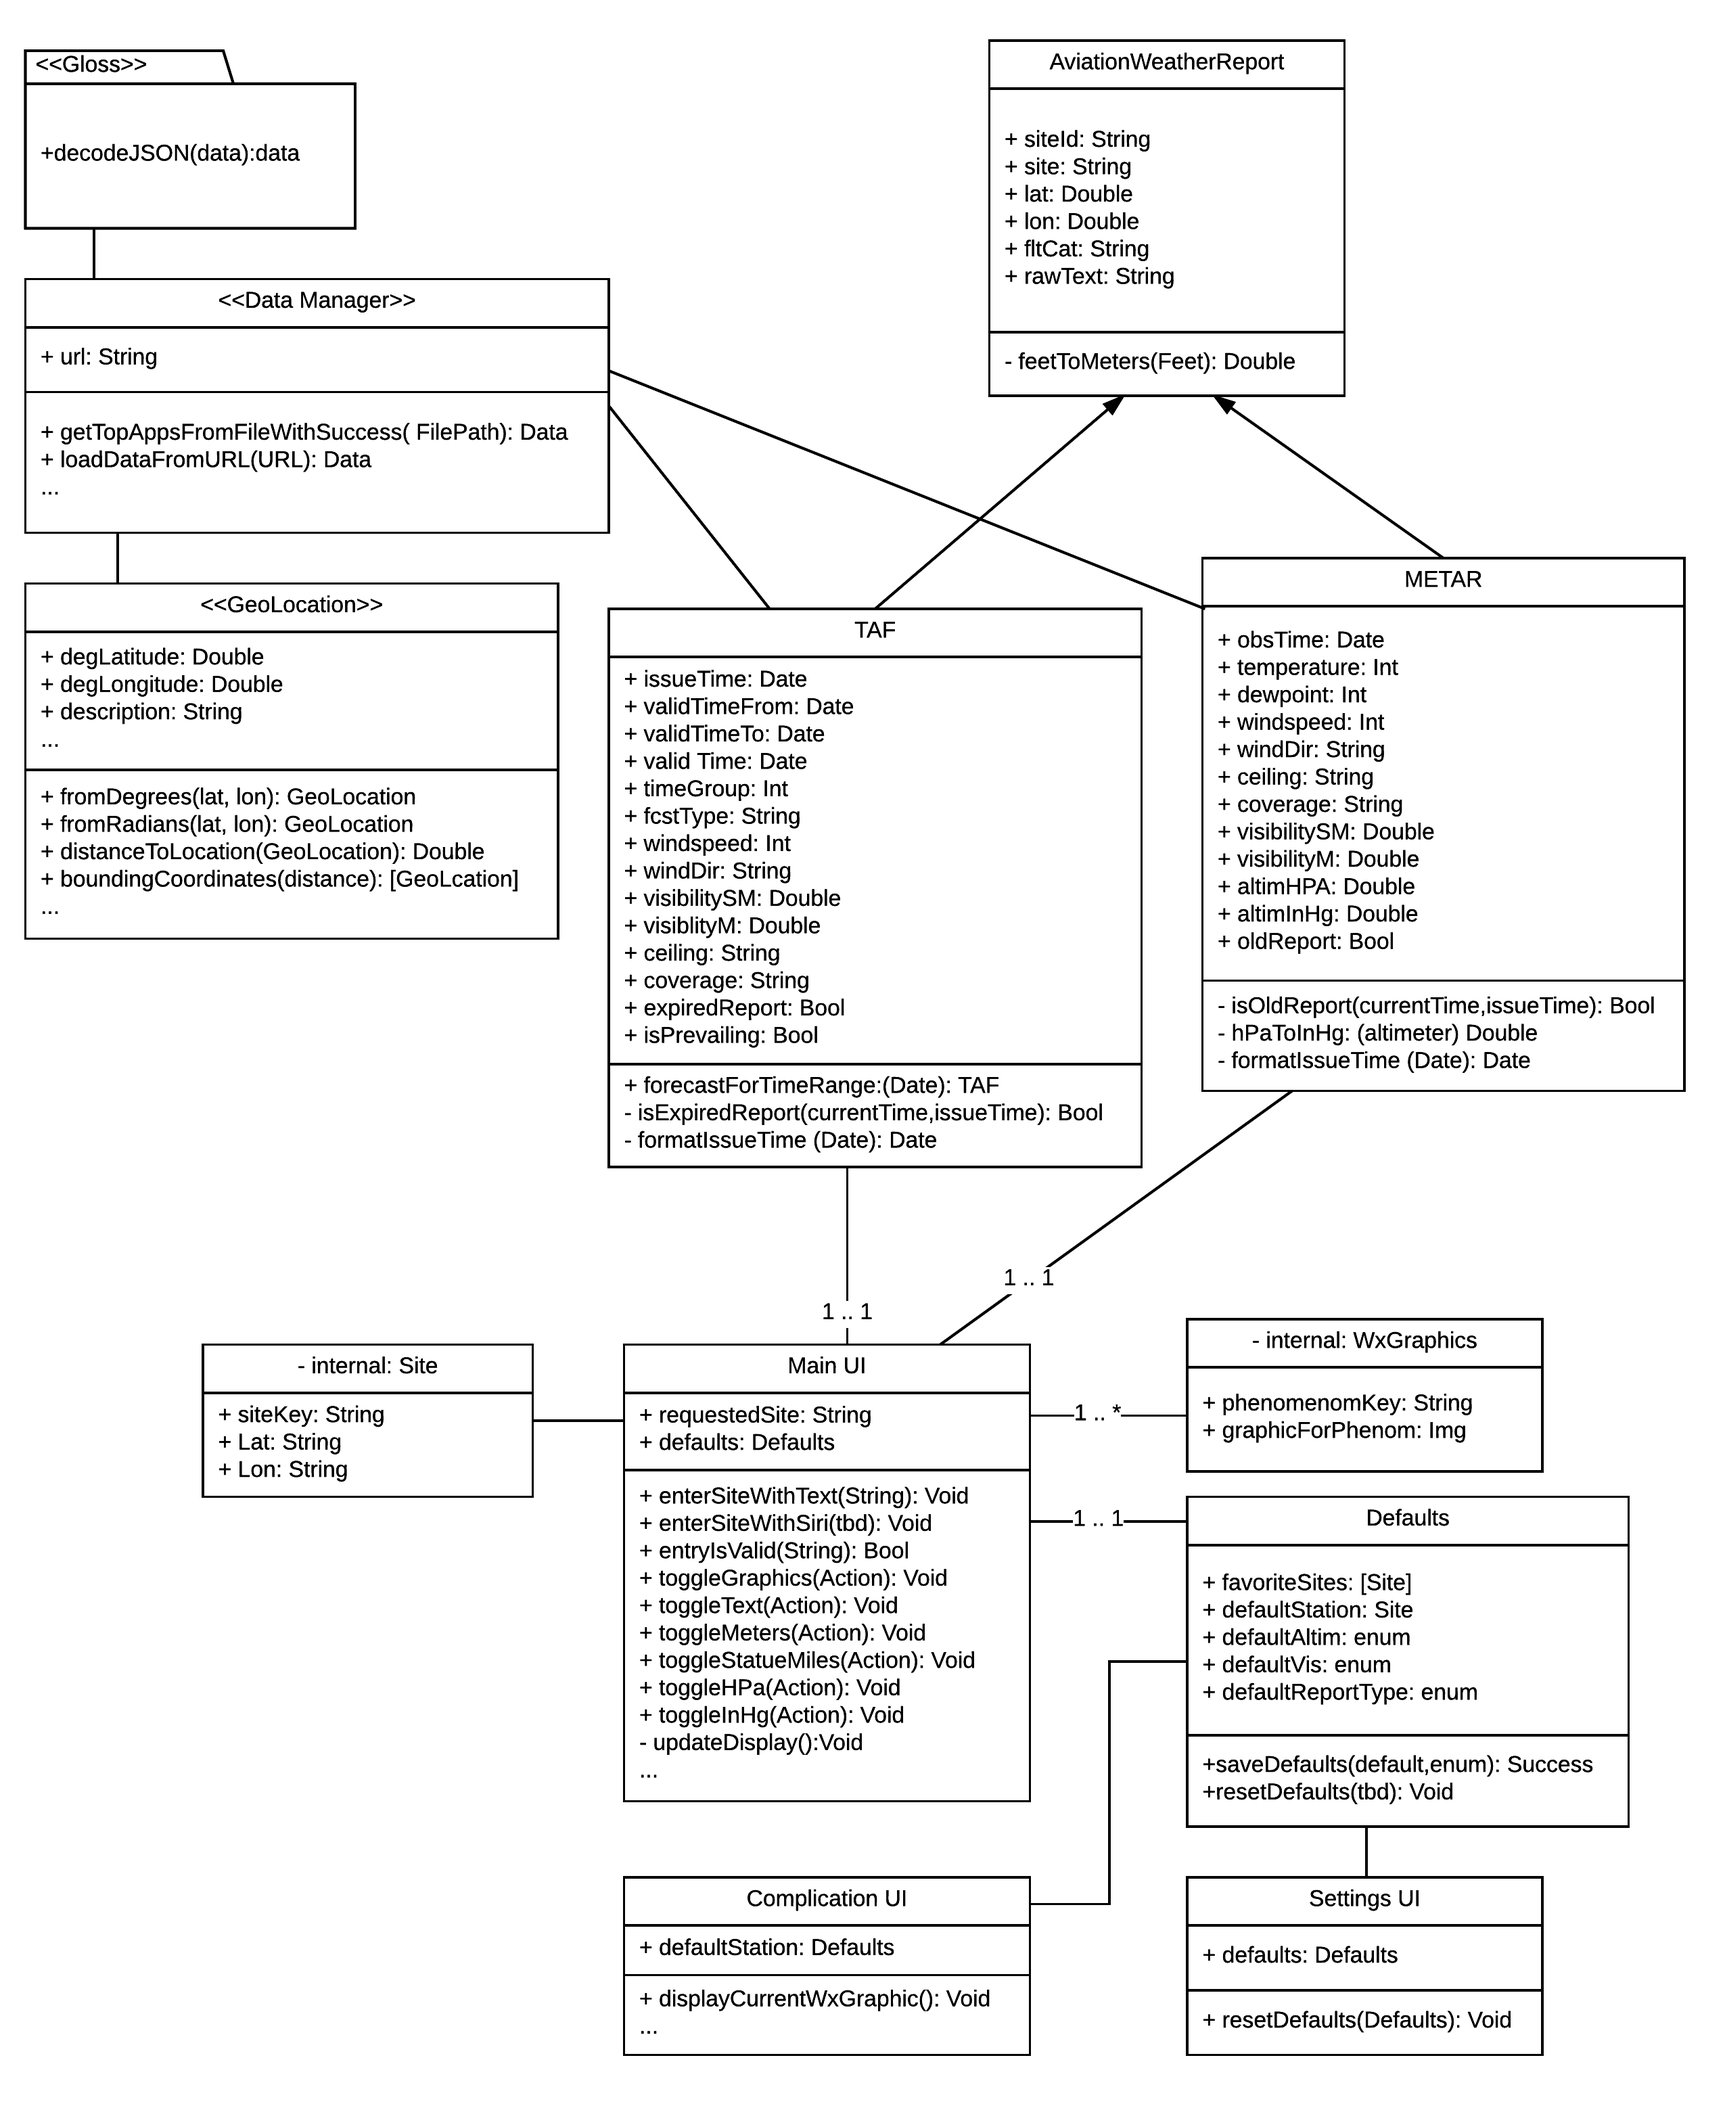
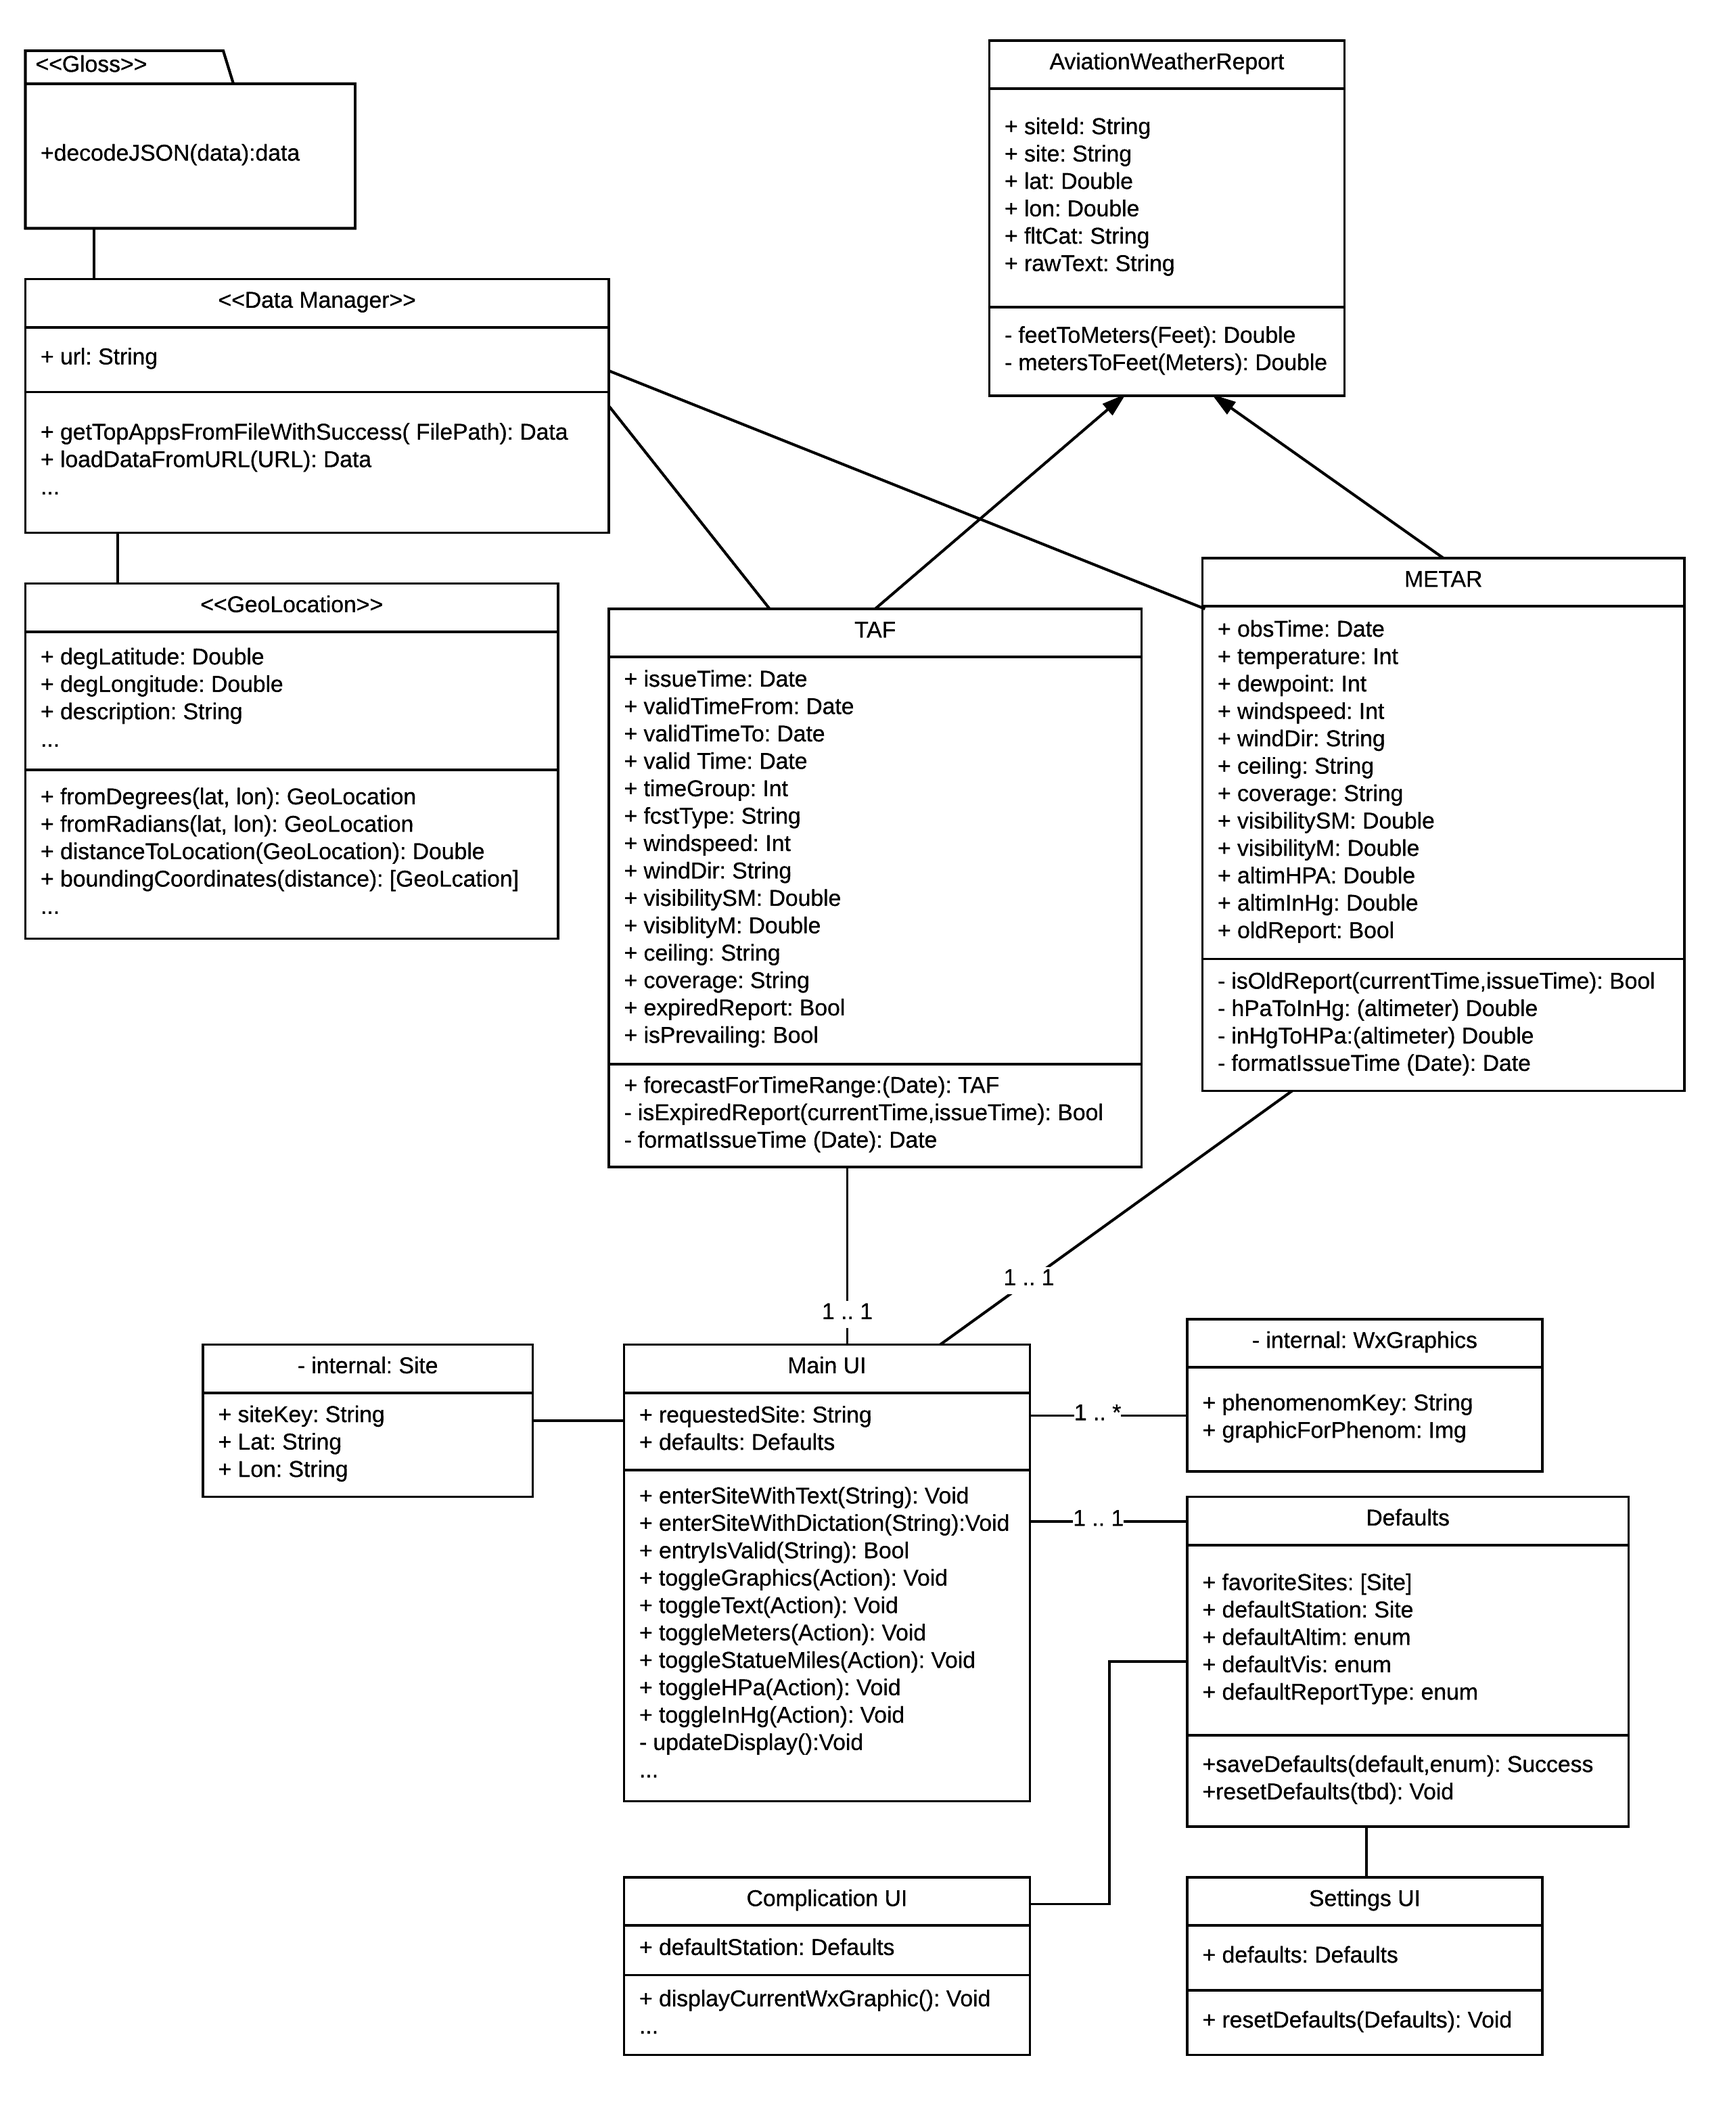
added testplan, updated class diagram

Changed region(s): [[0.7125, 0.2804, 0.9604, 0.5297], [0.5886, 0.0623, 0.7745, 0.187], [0.4647, 0.7167, 0.5576, 0.7478]]

diff --git a/planning/testplan.md b/planning/testplan.md
@@ -1,0 +1,55 @@
+# Test Plan
+<!--
+*This is the template for your test plan. The parts in italics are concise explanations of what should go in the corresponding sections and should not appear in the final document.*
+-->
+
+**Author**: Matthew
+
+## 1 Testing Strategy
+
+### 1.1 Overall strategy
+<!--
+*This section should provide details about your unit-, integration-, system-, and regression-testing strategies. In particular, it should discuss which activities you will perform as part of your testing process, and who will perform such activities.*
+-->
+
+### 1.2 Test Selection
+<!--
+*Here you should discuss how you are going to select your test cases, that is, which black-box and/or white-box techniques you will use. If you plan to use different techniques at different testing levels (e.g., unit and system), you should clarify that.*
+-->
+
+
+### 1.3 Adequacy Criterion
+<!--
+*Define how you are going to assess the quality of your test cases. Typically, this involves some form of functional or structural coverage. If you plan to use different techniques at different testing levels (e.g., unit and system), you should clarify that.*
+-->
+
+
+### 1.4 Bug Tracking
+<!--
+*Describe how bugs and enhancement requests will be tracked.*
+-->
+
+<!--
+*Describe any testing technology you intend to use or build (e.g., JUnit, Selenium).*
+-->
+
+
+## 2 Test Cases
+<!--
+*This section should be the core of this document. You should provide a table of test cases, one per row. For each test case, the table should provide its purpose, the steps necessary to perform the test, the expected result, the actual result (to be filled later), pass/fail information (to be filled later), and any additional information you think is relevant.*
+-->
+
+Test | Purpose | Steps to Perform | Expected Result | Actual Result | Pass/Fail |
+-------------| -------------| -------------| -------------| -------------| -------------
+1.1 Test that the app detects the first launch and  | To verify first launch defaults | 1. Create a first launch scenario 2. Invoke app launch -didFinishLaunchWithOptions function 3. Access defaults for launch. | defaultsForKey "first launch" = true| TBD | TBD
+1.2. Test that the app detects when it has been launched before | To verify >= second app launches | 1. Create a second launch scenario 2. Invoke app launch -didFinishLaunchWithOptions functions 3. Access defaults for launch.| defaultsForKey "first launch" = false| TBD| TBD
+1.3 Test that the app detects when it has been launched before but no default station is set| Detect when no default station is set | 1. Create a second launch scenario 2. Invoke didFinishLaunchingWithOptions. 3. Access launch default and default stations| defaultsForKey "first launch" = false and default station is not set | TBD | TBD
+2.1 Test validation of station input with malformed string | Verify only valid stations are requested | 1. Input invalid station input of less than required characters or containing invalid characters. 2. Use pattern match to detect malformed queries without accessing the data file and searching for the station. | Invalid stations return a false value from MainUI.entryIsValid attribute | TBD| TBD
+2.2 Test validation of station input with properly formed string but a non-existent station| Verify that an invalidStation is false when the station is not found in the data file. | 1. Invalid well formed string of a non-existent station.  2. Search for station in Sites data file. | Non-Existent stations are invalid.  Return a false value from MainUI.entryIsValid attribute | TBD | TBD
+2.3 Test validation of a valid station input | Verify that a valid station is found within the Sites data file. | 1. Input a valid station string.  2. Search for station in Sites data file. | Existing stations are valid and return a true value from the MainUI.entryIsValid attribute |TBD| TBD
+3. *Reserved Graphic for Key Testing* | | | | TBD | TBD
+4.1 Unit conversion from SM to Meters | To validate conversion code from statue miles to meters| 1. Input statue miles value and convert to meters. 2. Compare against a known value| Converted value and known are equal | TBD | TBD
+4.2 Unit conversion from Meters to SM | Validation conversion code from meters to statue miles. | 1. Input meters value and convert to statue miles.  2. Compare against a known value.  | Converted value and known are equal | TBD | TBD
+4.3 Unit conversion from inHG to HPa | Validate conversion code from inches of Mercury to Hecto-Pascals | 1. Input inHG value and convert to HPa. 2. Compare in the manner from test case 4.1  | Converted value and known are equal| TBD | TBD
+4.4 Unit conversion from HPa to inHG | Validate conversion code from Hecto-Pascals to inches of Mercury | 1. Input HPa value and convert to inHG. 2. Compare in the manner from test case 4.1 | Converted value and known are equal. | TBD | TBD
+

diff --git a/planning/classdiagram.md b/planning/classdiagram.md
@@ -1,10 +1,8 @@
-# Use Case Model
-
 <!-- *This is the template for your use case model. The parts in italics are concise explanations of what should go in the corresponding sections and should not appear in the final document.* -->
 
-**Author**: Matthew Hull
+# Class Diagram
 
-## Use Case Diagram
+**Author**: Matthew Hull
 
 <!-- *This section should contain a use case diagram with all the actors and use cases for the system, suitably connected.* -->
 
